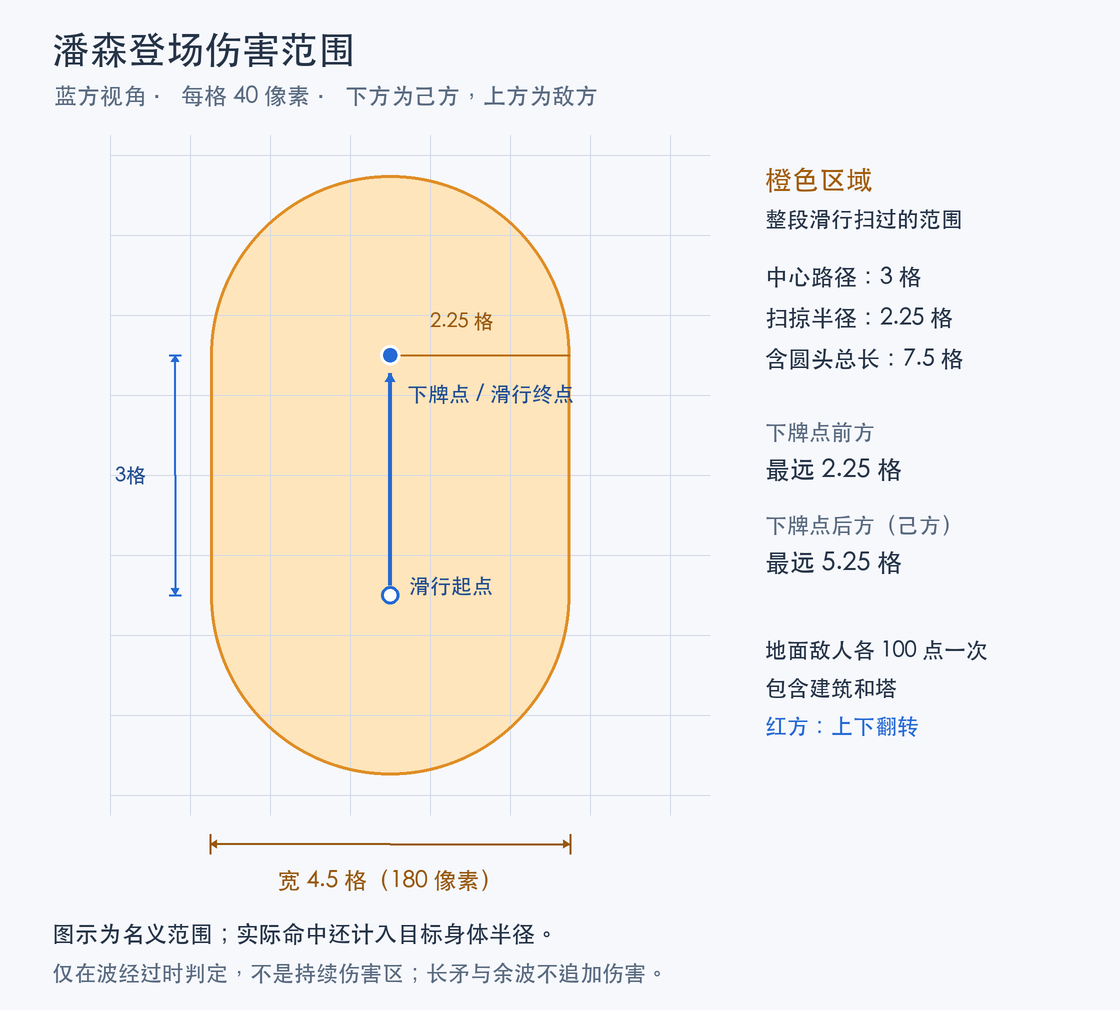
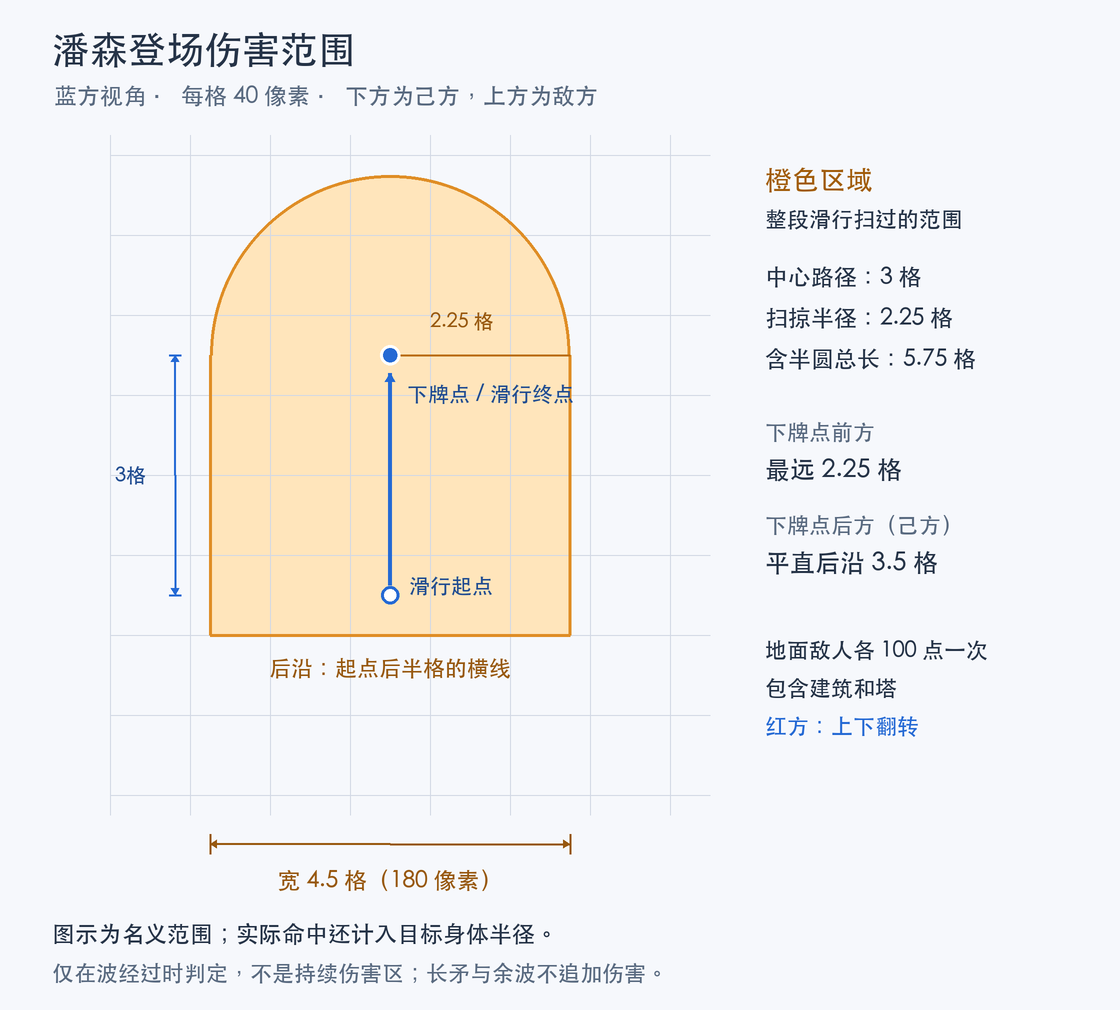
fix(pantheon): flatten rear edge of arrival sweep

diff --git a/docs/units/pantheon.md b/docs/units/pantheon.md
@@ -11,7 +11,7 @@
 | 攻击距离 / 目标 | 40 / 地面单位及建筑 |
 | 移速 / 身体半径 | 68 / 18 |
 | 部署 | 通用0.5秒命令缓冲 + <!-- card-fact: pantheon pre_deploy_time -->1.3秒彗星登场预部署 + <!-- card-fact: pantheon deploy_time -->1.0秒落地与收势 |
-| 登场伤害 | 彗星从落点己方侧3格（120像素）处着地，冲击波沿滑行路径以半径90扫掠；每名地面敌人波及时受100点伤害一次，无击退 |
+| 登场伤害 | 彗星从落点己方侧3格（120像素）处着地，冲击波沿滑行路径扫掠，宽180、前端半径90，后沿为起点后20像素的直线；每名地面敌人波及时受100点伤害一次，无击退 |
 
 ## 部署时序与登场伤害
 
@@ -30,7 +30,7 @@
 
 余波与拿矛/收势重叠，普通下牌后1.85–2.75秒播放（录像动作时间1.35–2.25秒）；由冲击罩消亡触发，仅有表现，不追加伤害。长矛落下也没有伤害。
 
-登场伤害的中心从**下牌点朝己方后退3格（120像素）**的位置，沿直线滑到下牌点。运动先快后慢，每Tick检查上一中心到当前中心的线段，半径90像素（2.25格）。整个阶段扫过的区域是**中轴120像素、半径90像素的胶囊形**：宽180像素（4.5格），含圆头总长300像素（7.5格）。以静止目标为例，中心线前端最多覆盖下牌点前方90像素，后端覆盖己方侧210像素，两端为圆弧而非矩形。
+登场伤害的中心从**下牌点朝己方后退3格（120像素）**的位置，沿直线滑到下牌点。运动先快后慢，每Tick扫过当前前进分段，宽180像素（4.5格），波前为半径90像素（2.25格）的前半圆。整个阶段扫过的区域为**长方形加前半圆**，后方没有半圆：后边界位于滑行起点后方最近的格子横线，即起点后20像素（半格）。矩形长140像素（3.5格），宽180像素；前端伸出下牌点90像素，含半圆总长230像素（5.75格）。2026-09-29更新判定与图示，部署时序和特效保持定稿版本。
 
 蓝方由下向上滑：起点为下牌点y+120；红方由上向下滑：起点为y−120。判定还加上目标body_radius，即目标身体碰到扫掠区便可命中。地面敌方单位、建筑和塔每个最多承受100点基础伤害一次，不击退；友军和空中单位不受伤，仍遵守共通保护/伤害规则。它不是持续铺在整条路上的伤害区：只在波经过当前分段时判定，拿矛、终点和余波均不另补一次伤害。可见火焰/罩体边缘不代表精确的权威边界。
 

diff --git a/docs/deliveries/2026-09-29_潘森登场范围平直后沿.md b/docs/deliveries/2026-09-29_潘森登场范围平直后沿.md
@@ -1,0 +1,7 @@
+# 交付合同：潘森登场范围平直后沿
+
+- **需求 / 来源**：用户对话；登场扫掠改为长方形加前半圆，取消起点后半圆，后沿放在起点后方最近的格子横线上，替换文档插图。
+- **完成结果**：潘森配置后伸20像素（格中心到后方横线的半格距离）。整段扫掠宽180、矩形长140，前半圆半径90，总长230像素；红方镜像。按当前Tick的矩形分段和前半圆查询目标身体，只有首次分段延伸至初始后沿，每目标一次，旧路径不持续判伤。保留100伤害、目标准入、部署时长和现有美术表现。新增字段包含schema、语义校验与边界回归；规则协议从当前工作区71提升为72。潘森手册、规则文档、协议说明及网格图同步更新。
+- **验证**：基线`4bc8d9a`，开始已有电击法术等未提交修改，原样保留；引擎Godot 4.7.1。新增红蓝后沿、角点、前圆边界、身体半径、旧后半圆排除、跨步与单次伤害、迟到目标及非法字段检查。完整机制回归51套件、7756项断言、0失败；静态审计与差异检查通过，网格图已目视检查。
+- **查看方式**：[潘森卡牌文档](../units/pantheon.md)、[新范围图](../units/images/pantheon-arrival-damage.png)。[回归日志](../../ClashLegends-开发素材库/04-中间产物/潘森伤害范围/20260929/mechanics.log)，绘图源同目录。
+- **遗留 / 未验证**：本轮不改特效，不新增特效观感验收；未执行双进程联网或发布包验证。
